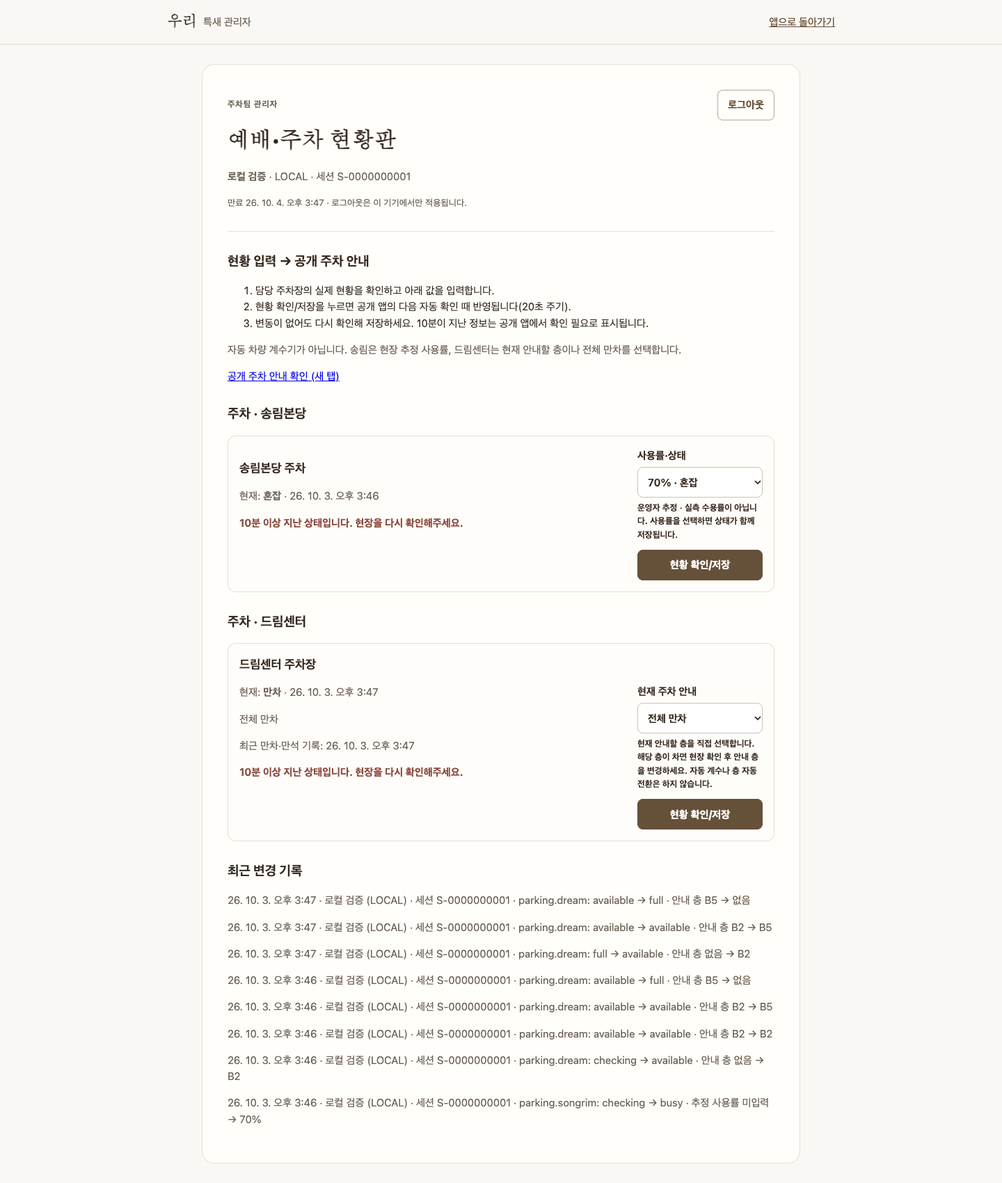
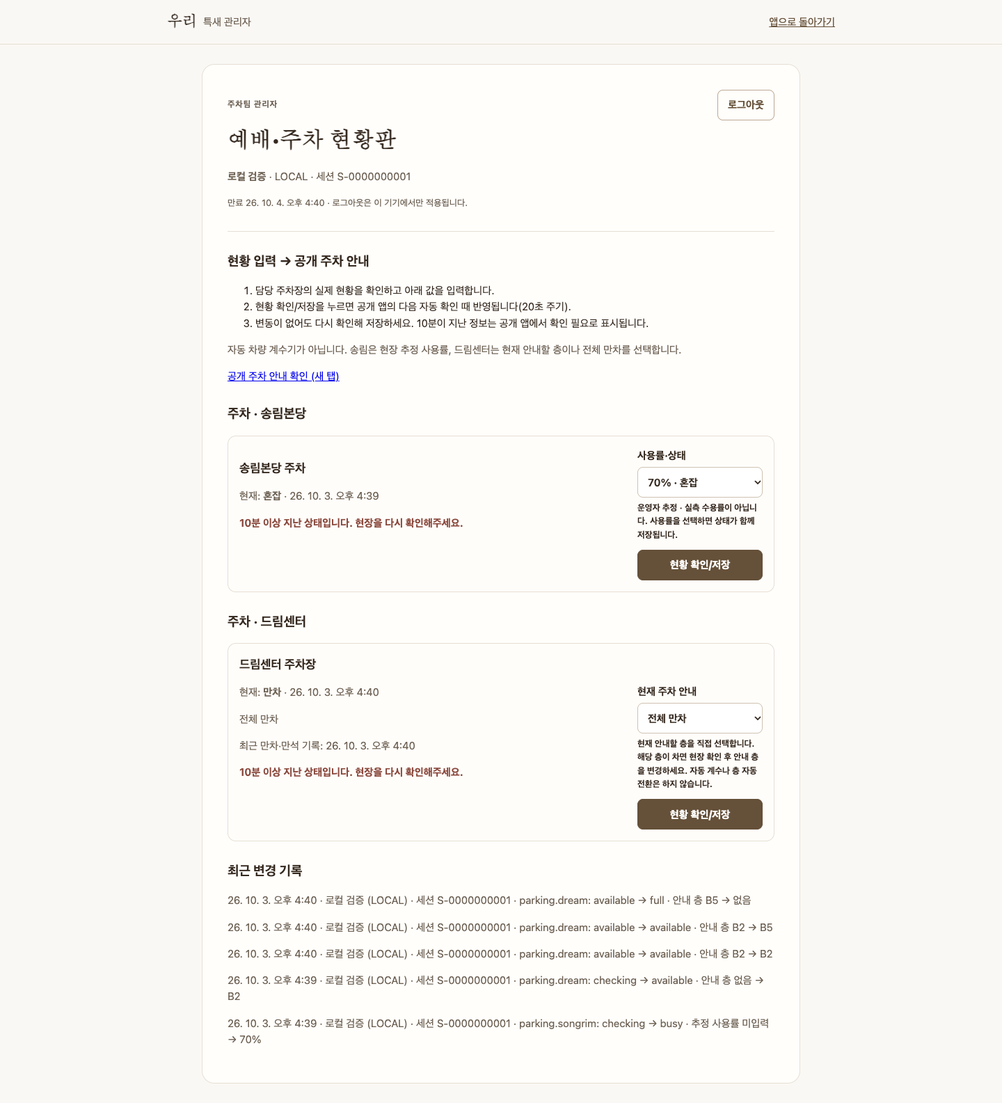
Reconcile final revival notice and date-specific parking guidance

diff --git a/src/__tests__/final-official-notice.test.tsx b/src/__tests__/final-official-notice.test.tsx
@@ -1,0 +1,73 @@
+import { cleanup, fireEvent, render, screen, within } from '@testing-library/react';
+import { afterEach, expect, it } from 'vitest';
+import { OfficialNotice, ParkingNotice } from '../features/companion/EventNotice';
+import { noticeServiceDay, songrimParkingNotice } from '../features/companion/officialNotice';
+import { buildCalendar } from '../features/companion/dawn';
+import { WakePlanner } from '../features/companion/worship';
+import { LiveParkingPanel } from '../features/companion/LiveOperations';
+afterEach(cleanup);
+
+it('selects the parking rule at Korea midnight, not the browser timezone', () => {
+  expect(noticeServiceDay(Date.parse('2026-10-04T14:59:59Z'))).toBeNull();
+  expect(noticeServiceDay(Date.parse('2026-10-04T15:00:00Z'))).toBe(5);
+  expect(noticeServiceDay(Date.parse('2026-10-08T15:00:00Z'))).toBe(9);
+  expect(noticeServiceDay(Date.parse('2026-10-10T15:00:00Z'))).toBeNull();
+  expect(noticeServiceDay(NaN)).toBeNull();
+});
+it.each([5, 9])('overrides the weekday exit rule for October %s', day => {
+  const text = songrimParkingNotice(day);
+  expect(text).toMatch(/정상 진행/); expect(text).toMatch(/종일 주차/);
+  expect(text).toMatch(/자율 출차 불가/); expect(text).toMatch(/선입선출/);
+  expect(text).toMatch(/중간 출차.*드림센터/); expect(text).not.toMatch(/06:45/);
+});
+it.each([6, 7, 8])('keeps the school field exit deadline on October %s', day => {
+  expect(songrimParkingNotice(day)).toMatch(/송림학교 운동장.*06:45까지 출차/);
+  expect(songrimParkingNotice(day)).not.toMatch(/종일 주차/);
+});
+it('does not invent a Saturday departure deadline or all-day permission', () => {
+  expect(songrimParkingNotice(10)).toMatch(/현장 안내/);
+  expect(songrimParkingNotice(10)).not.toMatch(/06:45|종일 주차/);
+});
+it('places each date-specific rule in its own downloaded calendar event', () => {
+  const events = buildCalendar(70, '송림본당 (이매)').split('BEGIN:VEVENT').slice(1);
+  expect(events).toHaveLength(6);
+  for (const [index, event] of events.entries()) {
+    expect(event).toMatch(/3시 50분 전후/); expect(event).toMatch(/04:30 준비기도/);
+    if (index === 0 || index === 4) { expect(event).toMatch(/종일 주차/); expect(event).not.toMatch(/06:45/); }
+    if ([1, 2, 3].includes(index)) expect(event).toMatch(/06:45/);
+    if (index === 5) expect(event).not.toMatch(/06:45|종일 주차/);
+  }
+  expect(buildCalendar(70, '서현 드림센터')).not.toMatch(/06:45/);
+});
+it('shows the final times, holiday exception and changed Friday service without guessed links', () => {
+  const view = render(<OfficialNotice />);
+  fireEvent.click(screen.getByText(/2026 가을특별새벽부흥회 · 최종 공지/));
+  expect(view.container.textContent).toMatch(/3시 50분 전후/);
+  expect(view.container.textContent).toMatch(/04:20.*생중계/);
+  expect(view.container.textContent).toMatch(/04:30 준비기도/);
+  expect(view.container.textContent).toMatch(/이찬수 담임목사/);
+  expect(view.container.textContent).toMatch(/10월 9일\(금\) 금요기도회는 한 주 쉽니다/);
+  expect(view.container.textContent).toMatch(/10월 4일\(주일\)/);
+  expect(view.container.querySelector('a')).toBeNull();
+});
+it('aligns the existing wake planner arrival buffer and holiday parking', () => {
+  render(<WakePlanner venue="songrim" day={9} />);
+  fireEvent.click(screen.getByText('몇 시에 일어나면 될까요?'));
+  expect(screen.getByText(/계산한 도착 시간/)).toHaveTextContent('04:20');
+  fireEvent.change(screen.getByRole('slider', { name: /도착 후 여유/ }), { target: { value: '5' } });
+  expect(screen.getByText(/계산한 도착 시간/)).toHaveTextContent('04:35');
+  expect(screen.getByText(/계산한 도착 시간/)).toHaveTextContent('10분 이상');
+  const notice = screen.getByRole('complementary', { name: '공식 주차 일정' });
+  expect(notice).toHaveTextContent('종일 주차'); expect(notice).not.toHaveTextContent('06:45');
+});
+it('keeps official guidance separate from unavailable live parking data', () => {
+  render(<LiveParkingPanel venue="songrim" setVenue={() => {}} operations={{ now: Date.parse('2026-10-09T04:30:00+09:00'), enabled: false, offline: true, confirmed: false, lastSync: null, resources: [] }} />);
+  expect(screen.getByText('연결 확인 중')).toBeVisible();
+  expect(screen.getByText('확인 필요')).toBeVisible();
+  expect(within(screen.getByRole('complementary', { name: '공식 주차 일정' })).getByText(/자율 출차 불가/)).toBeVisible();
+});
+it('does not carry Songrim school or holiday restrictions into Dream Center', () => {
+  render(<ParkingNotice venue="dream" day={9} />);
+  expect(screen.getByRole('complementary')).toHaveTextContent('중간 출차');
+  expect(screen.getByRole('complementary')).not.toHaveTextContent('자율 출차 불가');
+});

diff --git a/src/features/companion/preview.tsx b/src/features/companion/preview.tsx
@@ -3,6 +3,8 @@ import type { ReactNode } from 'react';
 import { PageHeading, StatusLead, StatusRow, VenueSwitch } from './ui';
 import type { Venue } from './ui';
 import { FloorStack } from './worship';
+import { OPENING_NOTICE } from './officialNotice';
+import { ParkingNotice } from './EventNotice';
 
 export type Stage = 0 | 1 | 2 | 3 | 4;
 
@@ -22,7 +24,7 @@ export function PreviewWorshipStatus({ venue, stage, stale }: { venue: Venue; st
     return <><StatusLead tone="neutral" label="정보 갱신이 필요한 상황 · 디자인 예시" title="현장 확인을 기다리고 있어요">이전 상태는 표시하지 않습니다. 입장과 주차는 현장 안내요원에게 확인해주세요.</StatusLead><StatusRow name="학교 출입" value="확인 중" /><StatusRow name="본당·체육관" value="확인 중" /></>;
   }
   const leads = [
-    ['입장 전', '본당입장 : 03시 50분 부터', 'neutral'],
+    ['입장 전', OPENING_NOTICE, 'neutral'],
     ['학교 안에서 대기해요', '본당과 체육관은 아직 열리지 않았어요. 보행 동선으로 이동해주세요.', 'neutral'],
     ['체육관에 먼저 들어갈 수 있어요', '본당을 기다리지 않고 체육관에서 예배를 준비할 수 있어요.', 'good'],
     ['본당 입장이 시작됐어요', '본당 1·2층으로 함께 안내하고 있어요. 입장 가능 여부는 현장에서 확인해주세요.', 'good'],
@@ -39,7 +41,7 @@ export function PreviewWorshipStatus({ venue, stage, stale }: { venue: Venue; st
   </>;
 }
 
-export function PreviewParkingPanel({ venue, setVenue, stage, stale, allFull, goToWorship, art }: { venue: Venue; setVenue: (venue: Venue) => void; stage: Stage; stale: boolean; allFull: boolean; goToWorship: () => void; art?: ReactNode }) {
+export function PreviewParkingPanel({ venue, setVenue, stage, stale, allFull, goToWorship, art, day = null }: { venue: Venue; setVenue: (venue: Venue) => void; stage: Stage; stale: boolean; allFull: boolean; goToWorship: () => void; art?: ReactNode; day?: number | null }) {
   const closed = venue === 'songrim' && stage === 0;
   let body: ReactNode;
   if (stale) body = <StatusLead tone="neutral" label="갱신 필요 · 디자인 예시" title="주차 현황을 확인 중이에요">오래된 정보로 진입을 안내하지 않습니다. 현장 주차요원의 안내를 따라주세요.</StatusLead>;
@@ -52,6 +54,7 @@ export function PreviewParkingPanel({ venue, setVenue, stage, stale, allFull, go
       <PageHeading eyebrow="도착하기 전에" title="주차 안내" art={art}>진입 가능 여부와 주차 공간을 확인해요.</PageHeading>
       <div className="tc-section tc-section--topless">
         <VenueSwitch venue={venue} onChange={setVenue} label="주차 장소" />
+        <ParkingNotice venue={venue} day={day} />
         {body}
         {venue === 'songrim' && <div className="tc-quiet"><strong>학교 출입과 예배당 입장은 달라요.</strong><p>학교 문이 열려 차량이 들어가도 본당·체육관은 아직 닫혀 있을 수 있습니다.</p></div>}
         <button className="tc-line-action" type="button" onClick={goToWorship}>예배 공간 개방 상태 보기 <span aria-hidden="true">→</span></button>

diff --git a/src/features/companion/worship.tsx b/src/features/companion/worship.tsx
@@ -5,6 +5,8 @@ import { SERVICE_DAYS, WEEKDAYS, buildCalendar, countdownParts, dawnPhase, downl
 import { Spaced, Sun, VenueSwitch } from './ui';
 import { VERSE, trailLabels, venueNames } from './constants';
 import type { ValueTone, Venue } from './ui';
+import { OfficialNotice, ParkingNotice } from './EventNotice';
+import { OPENING_NOTICE, noticeServiceDay } from './officialNotice';
 
 export function WorshipHero({ crownImage }: { crownImage: string }) {
   return (
@@ -123,7 +125,7 @@ function Slider({ label, value, min, max, onChange }: { label: string; value: nu
 }
 
 /** "What time should I get up?" A tiny, local-only calculator. */
-export function WakePlanner({ venue }: { venue: Venue }) {
+export function WakePlanner({ venue, day = null }: { venue: Venue; day?: number | null }) {
   const [ready, setReady] = useState(30);
   const [travel, setTravel] = useState(20);
   const [buffer, setBuffer] = useState(20);
@@ -150,7 +152,9 @@ export function WakePlanner({ venue }: { venue: Venue }) {
         <Slider label="씻고 준비하기" value={ready} min={10} max={60} onChange={setReady} />
         <Slider label="이동 시간" value={travel} min={5} max={60} onChange={setTravel} />
         <Slider label="도착 후 여유" value={buffer} min={5} max={40} onChange={setBuffer} />
-        <p className="tc-wake__basis">04:40 예배 시작 기준이에요. 본당입장 : 03시 50분 부터. 실제 입장 상황은 현장 안내를 확인해주세요.</p>
+        <p className="tc-wake__basis">04:40 예배 시작 기준이에요. {OPENING_NOTICE}. 실제 입장 상황은 현장 안내를 확인해주세요.</p>
+        <p className="tc-wake__basis">계산한 도착 시간은 {wakeTimeText(buffer)}입니다. 04:30 준비기도에 참여하려면 ‘도착 후 여유’를 10분 이상으로 잡아주세요.</p>
+        <ParkingNotice venue={venue} day={day} />
         <button
           className="tc-secondary"
           type="button"
@@ -196,16 +200,18 @@ export function WorshipPanel({ crownImage, venue, setVenue, now, previewDay, sta
       </div>
       <InstallCard />
       <DawnJourney now={now} previewDay={previewDay} />
+      <OfficialNotice />
       <div className="tc-section">
         <h2 className="tc-section-title">지금 예배 공간은</h2>
         <VenueSwitch venue={venue} onChange={setVenue} label="예배 장소" />
-        {venue === 'songrim' && <><p className="tc-panel-note">본당입장 : 03시 50분 부터</p><StageTrail stage={stage} /></>}
+        <p className="tc-panel-note">{OPENING_NOTICE}</p>
+        {venue === 'songrim' && <StageTrail stage={stage} />}
         {children}
 
         {after}
       </div>
       <div className="tc-section">
-        <WakePlanner venue={venue} />
+        <WakePlanner venue={venue} day={previewDay === null ? noticeServiceDay(now) : SERVICE_DAYS[previewDay] ?? null} />
 
         <VerseCard />
       </div>

diff --git a/src/features/companion/officialNotice.ts b/src/features/companion/officialNotice.ts
@@ -1,0 +1,27 @@
+// User-supplied final official notice, confirmed on 2026-10-03.
+// These are published schedule rules, never current occupancy or opening state.
+export const OPENING_NOTICE = '송림 본당 및 드림센터 개방 시간: 새벽 3시 50분 전후';
+export const HOLIDAY_PARKING = '송림 종일 주차 가능 · 자율 출차 불가 · 선입선출. 중간 출차가 필요하면 드림센터를 이용해주세요.';
+export const WEEKDAY_PARKING = '학교 수업을 위해 송림학교 운동장 차량은 06:45까지 출차해주세요.';
+
+/** Actual October date, using Korea time; null outside the six service days. */
+export function noticeServiceDay(now: number): number | null {
+  if (!Number.isFinite(now)) return null;
+  const date = new Date(now + 9 * 3_600_000).toISOString().slice(0, 10);
+  const day = Number(date.slice(8));
+  return date.startsWith('2026-10-') && day >= 5 && day <= 10 ? day : null;
+}
+
+export function songrimParkingNotice(day: number | null): string {
+  if (day === 5 || day === 9) return `10월 ${day}일 공휴일에도 새벽예배는 정상 진행합니다. ${HOLIDAY_PARKING}`;
+  if (day === 6 || day === 7 || day === 8) return `10월 ${day}일 평일 안내 · ${WEEKDAY_PARKING}`;
+  if (day === 10) return '10월 10일(토) 송림 출차는 현장 안내를 따라주세요.';
+  return `평일 10월 6–8일: ${WEEKDAY_PARKING} 공휴일 10월 5일·9일: ${HOLIDAY_PARKING} 10월 10일(토) 출차는 현장 안내를 확인해주세요.`;
+}
+
+export function calendarNotice(day: number, place: string): string {
+  const parking = place.includes('드림센터')
+    ? '중간 출차가 필요하면 드림센터를 이용해주세요. 주차 가능 여부는 현장 안내를 확인해주세요.'
+    : songrimParkingNotice(day);
+  return ['하나님 마음에 합한 사람 (사도행전 13:22) · 이찬수 담임목사', OPENING_NOTICE, '04:20 온라인 생중계 · 04:30 준비기도 · 04:40 예배 시작', parking].join('\\n');
+}

diff --git a/src/features/companion/LiveOperations.tsx b/src/features/companion/LiveOperations.tsx
@@ -6,6 +6,8 @@ import { FloorStack } from './worship';
 import type { FloorItem } from './worship';
 import { PageHeading, StatusRow, VenueSwitch } from './ui';
 import type { ValueTone, Venue } from './ui';
+import { ParkingNotice } from './EventNotice';
+import { noticeServiceDay } from './officialNotice';
 
 export type LiveResourceState = 'checking' | 'closed' | 'available' | 'busy' | 'full' | 'school_open' | 'gym_open' | 'hall_open' | 'hall_closed';
 type Category = 'parking' | 'space';
@@ -172,6 +174,7 @@ export function LiveParkingPanel({ venue, setVenue, operations, art }: { venue: 
       <PageHeading eyebrow="도착하기 전에" title="주차 안내" art={art}>예배 장소별 주차 안내를 확인하세요.</PageHeading>
       <div className="tc-section tc-section--topless">
         <VenueSwitch venue={venue} onChange={setVenue} label="주차 장소" />
+        <ParkingNotice venue={venue} day={noticeServiceDay(operations.now)} />
         <p className="tc-panel-note">현장 주차팀이 저장한 안내입니다. 화면이 열려 있으면 20초마다 자동 확인하며, 앱으로 돌아오거나 연결이 복구되면 바로 확인합니다. 마지막 현장 확인이 10분을 넘으면 확인 필요로 표시합니다.</p>
         {venue === 'dream' && <p className="tc-panel-note">드림센터 전체를 하나의 주차장으로 안내합니다. 표시된 층은 주차팀이 현재 안내하는 층입니다. 층이 차면 담당자가 안내 층을 변경합니다. 실제 이동은 현장 안내를 따라주세요.</p>}
         <LiveNotice guidance={venue === 'dream'} enabled={operations.enabled} offline={operations.offline} confirmed={hasFreshDisplayedResource(ids, operations)} />

diff --git a/src/features/companion/EventNotice.tsx b/src/features/companion/EventNotice.tsx
@@ -1,0 +1,24 @@
+import { HOLIDAY_PARKING, OPENING_NOTICE, WEEKDAY_PARKING, songrimParkingNotice } from './officialNotice';
+import type { Venue } from './ui';
+
+export function OfficialNotice() {
+  return <details className="tc-official-notice tc-quiet">
+    <summary>2026 가을특별새벽부흥회 · 최종 공지</summary>
+    <p>하나님 마음에 합한 사람 (사도행전 13:22) · 이찬수 담임목사</p>
+    <p>10월 5일(월)–10월 10일(토) 04:40 · 송림 본당·드림센터 및 온라인</p>
+    <p>{OPENING_NOTICE}</p>
+    <p>04:30 준비기도 · 실제 입장은 현장 안내를 따라주세요.</p>
+    <p>04:20부터 공식 홈페이지 배너·YouTube로 생중계합니다. 설교 영상은 오전에 업로드됩니다.</p>
+    <p>평일 10월 6–8일: {WEEKDAY_PARKING}</p>
+    <p>공휴일 10월 5일(월)·9일(금)에도 새벽예배는 정상 진행합니다. {HOLIDAY_PARKING}</p>
+    <p>수요예배는 정상 진행합니다. 10월 9일(금) 금요기도회는 한 주 쉽니다.</p>
+    <p>가이드북은 10월 4일(주일)에 배부하며, 공식 홈페이지에서도 내려받을 수 있습니다.</p>
+  </details>;
+}
+
+export function ParkingNotice({ venue, day }: { venue: Venue; day: number | null }) {
+  return <aside className="tc-quiet" aria-label="공식 주차 일정">
+    <strong>공식 주차 일정{day === null ? '' : ` · 10월 ${day}일`}</strong>
+    <p>{venue === 'songrim' ? songrimParkingNotice(day) : '중간 출차가 필요하면 드림센터를 이용해주세요. 현재 주차 가능 여부와 안내 층은 현장 안내를 확인해주세요.'}</p>
+  </aside>;
+}

diff --git a/src/domain/config.ts b/src/domain/config.ts
@@ -57,7 +57,7 @@ export const defaultAppConfig: AppConfig = {
   ],
   weekDays: DEFAULT_WEEK_DAYS,
   movementNotices: [
-    { label: "문 개방", value: "정문과 후문을 모두 사용하실 수 있습니다." },
+    { label: "문 개방", value: "송림 본당 및 드림센터는 새벽 3시 50분 전후 개방합니다. 실제 출입은 현장 안내를 따라주세요." },
     {
       label: "주차",
       value: "송림 주차장이 붐비면 드림센터 주차장을 이용해 주세요.",
@@ -65,7 +65,7 @@ export const defaultAppConfig: AppConfig = {
     { label: "아이 동반", value: "드림센터 자모실을 이용하실 수 있습니다." },
     {
       label: "중간 출차",
-      value: "예배 중 출차는 체육관 주차장이 더 편합니다.",
+      value: "중간 출차가 필요하면 드림센터를 이용해주세요. 10월 5일·9일 송림은 종일 주차 가능하지만 자율 출차가 불가하며 선입선출입니다.",
     },
   ],
   onlineNoticeTitle: "온라인 예배도 같은 자리입니다",

diff --git a/src/features/companion/companion.css b/src/features/companion/companion.css
@@ -237,6 +237,9 @@ body { background: #fbfbfa; }
 .tc-quiet { background: var(--paper-2); padding: 14px 16px; border-radius: 14px; margin: 14px 0; }
 .tc-quiet strong { font-size: 13px; font-weight: 700; color: var(--text); }
 .tc-quiet p { font-size: 12px; color: var(--ink-soft); margin-top: 4px !important; line-height: 1.65; }
+.tc-official-notice { margin: 20px 24px; }
+.tc-official-notice summary { cursor: pointer; font-size: 13px; font-weight: 600; line-height: 1.6; }
+.tc-official-notice p { margin-top: 10px !important; }
 .tc-line-action { display: flex; justify-content: space-between; align-items: center; min-height: 50px; width: 100%; font-size: 13px; font-weight: 500; text-align: left; border-bottom: 1px solid var(--line) !important; padding: 10px 2px !important; color: var(--ink) !important; }
 .tc-line-action span { transition: transform .2s var(--ease); }
 .tc-line-action:hover span { transform: translateX(3px); }

diff --git a/src/features/companion/dawn.ts b/src/features/companion/dawn.ts
@@ -1,4 +1,5 @@
 /** Time helpers for the six dawn services (2026-10-05 ~ 10-10, 04:40 KST). */
+import { calendarNotice } from './officialNotice';
 
 export const SERVICE_DAYS = [5, 6, 7, 8, 9, 10] as const;
 export const WEEKDAYS = ['월', '화', '수', '목', '금', '토'] as const;
@@ -63,7 +64,7 @@ export function buildCalendar(minutesBefore: number, place: string, created = Da
       `DTSTART:${stamp(start)}`,
       'SUMMARY:가을특별새벽부흥회 · 04:40 예배 시작',
       `LOCATION:${place}`,
-      'DESCRIPTION:하나님 마음에 합한 사람 (사도행전 13:22)\\n04:40은 예배 시작 시각입니다. 학교·예배 공간 개방 시각은 현장 안내를 확인해주세요.',
+      `DESCRIPTION:${calendarNotice(day, place)}`,
       'BEGIN:VALARM',
       'ACTION:DISPLAY',
       'DESCRIPTION:일어날 시간이에요 · 특별새벽부흥회',

diff --git a/src/features/companion/CompanionApp.tsx b/src/features/companion/CompanionApp.tsx
@@ -162,7 +162,7 @@ export function CompanionApp() {
           </div>
           <div hidden={tab !== 'parking'}>
             {isPreview
-              ? <PreviewParkingPanel venue={venue} setVenue={setVenue} stage={stage} stale={stale} allFull={parkingFull[venue]} goToWorship={() => selectTab('worship')} art={<ParkingArt />} />
+              ? <PreviewParkingPanel venue={venue} setVenue={setVenue} stage={stage} stale={stale} allFull={parkingFull[venue]} goToWorship={() => selectTab('worship')} art={<ParkingArt />} day={eventDay + 5} />
               : <LiveParkingPanel venue={venue} setVenue={setVenue} operations={operations} art={<ParkingArt />} />}
           </div>
           <div hidden={tab !== 'prayer'}><PrayerPanel onPreview={(text) => { setCardState(''); setModal({ type: 'prayer', text }); }} /></div>

diff --git a/docs/feedback-2026-10-03.md b/docs/feedback-2026-10-03.md
@@ -6,7 +6,7 @@
 
 | 번호 | 최종 동작 | 주요 파일 |
 | --- | --- | --- |
-| 1 | 공식 안내를 정확히 `본당입장 : 03시 50분 부터`로 변경. 기상 계산기와 디자인 미리보기의 03:00 학교 입장 문구도 제거. | `worship.tsx`, `preview.tsx` |
+| 1 | 최종 공식 공지에 따라 `송림 본당 및 드림센터 개방 시간: 새벽 3시 50분 전후`로 변경. 날짜별 주차 예외는 `final-notice-2026-10-03.md` 참고. 기상 계산기와 디자인 미리보기의 03:00 학교 입장 문구도 제거. | `worship.tsx`, `preview.tsx` |
 | 2 | 갈보리 입력 카드와 최근 기록 표시를 관리자 화면에서 제외. 공개/미리보기에서도 더는 갱신하지 않는 장소를 안내하지 않음. DB 행·기록은 삭제하지 않음. | `AdminApp.tsx`, `LiveOperations.tsx`, `preview.tsx` |
 | 3 | 관리자에서 송림 주차장을 가장 먼저, 드림센터를 두 번째로 표시. 공개 주차 탭의 첫 장소는 송림. | `AdminApp.tsx`, `CompanionApp.tsx` |
 | 4 | **사용자 후속 확인으로 대수 모델을 취소**하고 드림센터 한 항목 + 현재 안내 층(B1–B5 직접 선택)으로 구현. `B2층으로 안내 중`, 전체 만차, 이용 불가, 현장 확인 전. 층별 퍼센트·총 대수·자동 순서 추정 없음. 기존 층별 이력 보존. | `AdminApp.tsx`, `LiveOperations.tsx`, `admin-auth.js`, 신규 SQL |
@@ -56,7 +56,7 @@
 
 ## 검증 및 재현
 
-`npm run lint`, `npm run build`(앱 TypeScript 포함), `npm test`, `npm run test:server`, `node --check public/sw.js`, `git diff --check`를 실행했다. 최종 결과: 프런트 328개/서버 78개 테스트 통과, 타입 포함 빌드·lint·서비스워커 문법 통과. 기존 PostgreSQL/HTTP 검사 233개(TZ=UTC), 신규 SQL 검사와 14개 브라우저 시나리오 통과. 상세 결과와 브라우저 화면은 `evidence/feedback-20261003/`에 기록한다.
+`npm run lint`, `npm run build`(앱 TypeScript 포함), `npm test`, `npm run test:server`, `node --check public/sw.js`, `git diff --check`를 실행했다. 최종 결과: 프런트 340개/서버 78개 테스트 통과, 타입 포함 빌드·lint·서비스워커 문법 통과. 기존 PostgreSQL/HTTP 검사 233개(TZ=UTC), 신규 SQL 검사와 14개 브라우저 시나리오 통과. 상세 결과와 브라우저 화면은 `evidence/feedback-20261003/`에 기록한다.
 
 추가 도구 버전은 PGlite 0.5.8, agent-browser 0.27.0이며, 앱 의존성에 넣지 않고 `/tmp/teuksae-feedback-tools`에 설치했다. `@electric-sql/pglite`로 실제 SQL 함수를 실행하는 `tests/scripts/feedback-db.mjs`, 합성 데이터만 제공하는 `feedback-fixture.mjs`, 독립 headless Chrome으로 검증하는 `feedback-browser.mjs`를 포함한다.
 

diff --git a/docs/final-notice-2026-10-03.md b/docs/final-notice-2026-10-03.md
@@ -1,0 +1,15 @@
+# 2026-10-03 최종 공식 공지 반영
+
+사용자가 최종 공지로 지정한 이미지의 확인된 내용에 맞췄습니다. 원래 피드백 통합 커밋 `925895990ac06681f406475393a2372d1017cae0`에서 격리한 worktree에서 작업했습니다.
+
+- 개방 안내를 **송림 본당 및 드림센터 · 새벽 3시 50분 전후**로 통일했습니다. 확정된 즉시 입장 시각으로 표시하지 않습니다.
+- 10월 5일(월)–10일(토) 04:40 예배, 주제·성구·이찬수 담임목사, 04:30 준비기도, 04:20 공식 홈페이지 배너/YouTube 생중계·오전 설교 업로드를 접을 수 있는 공지에 반영했습니다. 확인되지 않은 링크와 연락처를 추가하지 않았습니다.
+- 10월 5일·9일은 예배 정상 진행, 송림 종일 주차 가능·자율 출차 불가·선입선출입니다. 중간 출차가 필요하면 드림센터를 안내합니다.
+- 송림학교 운동장 평일 06:45 출차는 행사 중 일반 평일인 10월 6–8일에 적용합니다. 공휴일이나 토요일에 잘못 적용하지 않습니다. 토요일 미공지 출차 시각은 현장 확인으로 남깁니다.
+- 실제 한국 날짜, 디자인 미리보기의 선택 날짜, 기존 기상 계산기와 6일치 캘린더에 같은 날짜별 규칙을 사용합니다. 계산기는 04:40 기준과 예상 도착 시각을 명시하고, 04:30 준비기도에 참여하려면 도착 여유를 10분 이상 두도록 설명합니다.
+- 수요예배 정상 진행, 10월 9일 금요기도회 한 주 쉼, 10월 4일 가이드북 배부/홈페이지 다운로드를 반영했습니다.
+- 기존 게임 진입 위치·기도 타이머·개인정보 처리·온라인 피드·현장 확인 상태를 유지합니다. 공식 일정은 실시간 입장/주차 가능 상태를 대신하지 않습니다.
+
+로컬 검증: 프런트 **340개**, 서버 **78개**, 기존 PostgreSQL/HTTP **233개**, 신규 마이그레이션 실행 검사, 브라우저 **14개**, lint·TypeScript/Vite build·서비스워커 구문 통과. 날짜 경계·공휴일 우선·토요일 미확정·캘린더별 규칙·오프라인 상태와 공지 분리를 테스트했습니다. 합성 데이터와 독립 headless Chrome만 사용했습니다.
+
+운영 적용 전 읽기 확인(07:31 UTC): GitHub main/Vercel production `c0ec91e`, 신규 안내 층/공개 페이지 RPC 미존재. 실제 배포 결과는 릴리스 기록에 별도 남깁니다. 기존 주차 이력·기도·사진은 삭제하지 않으며, 운영 검증에서 시험 글·사진·주차 상태를 작성하지 않습니다.
